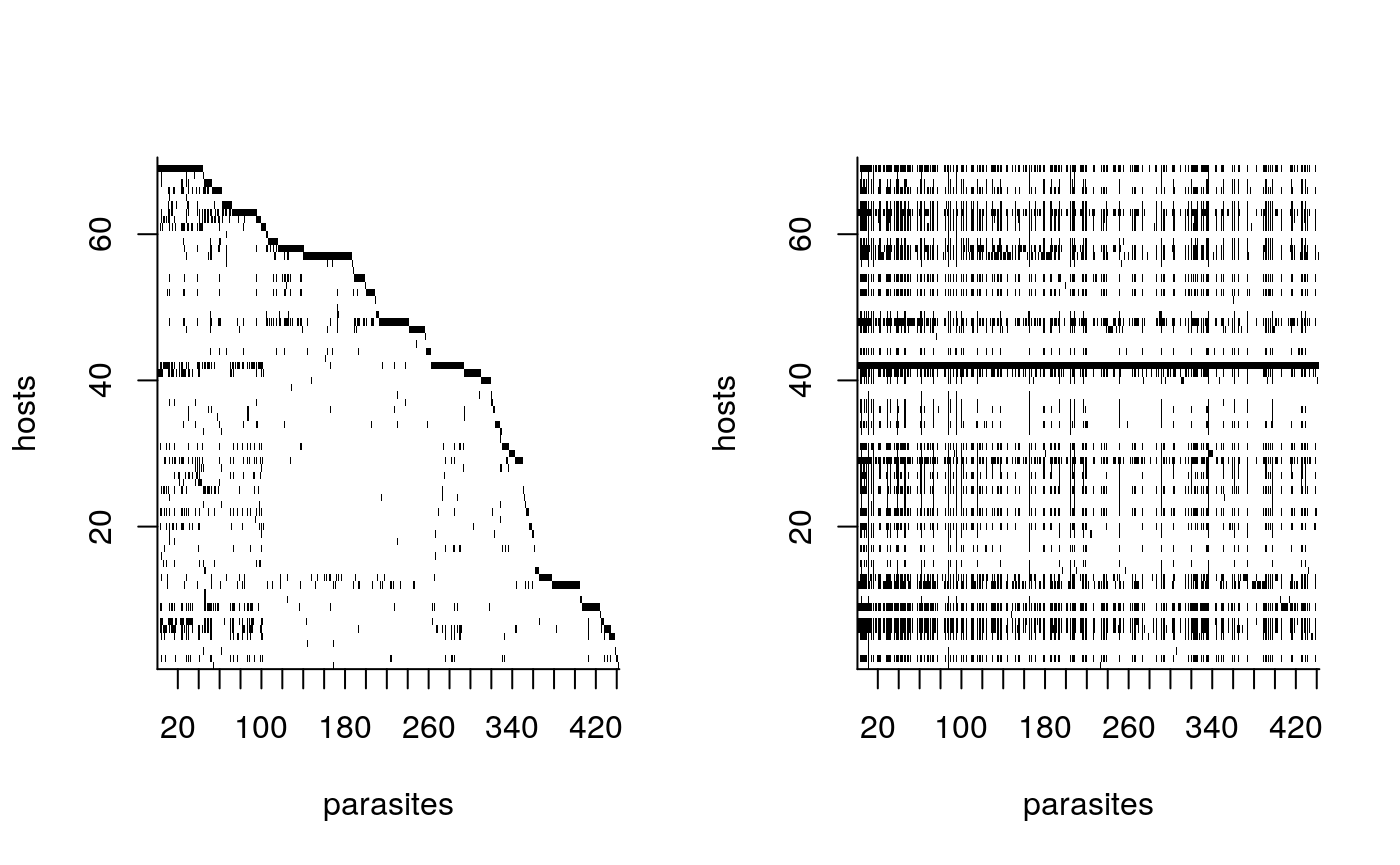
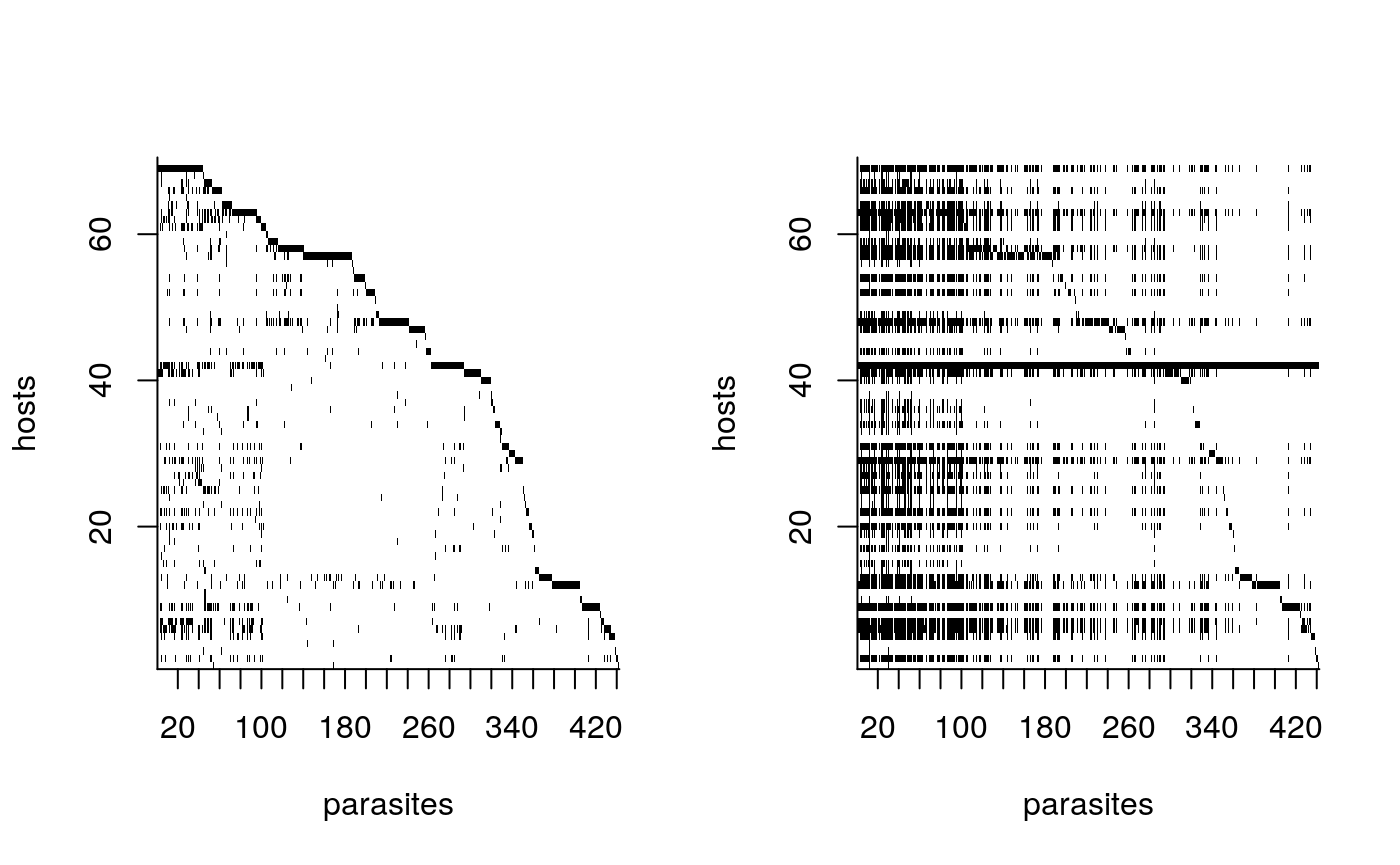
fixed minor issue

Changed region(s): [[0.6143, 0.1873, 0.9521, 0.7803]]

diff --git a/docs/articles/HPprediction.html b/docs/articles/HPprediction.html
@@ -118,10 +118,11 @@
 <a class="sourceLine" id="cb2-22" title="22"><span class="co"># merge the tree and interaction matrix</span></a>
 <a class="sourceLine" id="cb2-23" title="23">cleaned &lt;-<span class="st"> </span><span class="kw"><a href="../reference/network_clean.html">network_clean</a></span>(com, mammal_supertree, <span class="st">'full'</span>)</a>
 <a class="sourceLine" id="cb2-24" title="24"><span class="co">#&gt; Warning: not all rows in Z exist tree; missing are removed from Z!</span></a>
-<a class="sourceLine" id="cb2-25" title="25"><span class="co">#&gt; [1] "ordering the rows of Z to match tree..."</span></a>
-<a class="sourceLine" id="cb2-26" title="26"><span class="co">#&gt; [1] "normalizing tree edges by the maximum pairwise distance!"</span></a>
-<a class="sourceLine" id="cb2-27" title="27">com &lt;-<span class="st"> </span>cleaned<span class="op">$</span>Z                         <span class="co"># cleaned binary interaction matrix</span></a>
-<a class="sourceLine" id="cb2-28" title="28">tree &lt;-<span class="st"> </span>cleaned<span class="op">$</span>tree                     <span class="co"># cleaned tree</span></a></code></pre></div>
+<a class="sourceLine" id="cb2-25" title="25"><span class="co">#&gt; [1] "Z has empty columns - these have been removed!"</span></a>
+<a class="sourceLine" id="cb2-26" title="26"><span class="co">#&gt; [1] "ordering the rows of Z to match tree..."</span></a>
+<a class="sourceLine" id="cb2-27" title="27"><span class="co">#&gt; [1] "normalizing tree edges by the maximum pairwise distance!"</span></a>
+<a class="sourceLine" id="cb2-28" title="28">com &lt;-<span class="st"> </span>cleaned<span class="op">$</span>Z                         <span class="co"># cleaned binary interaction matrix</span></a>
+<a class="sourceLine" id="cb2-29" title="29">tree &lt;-<span class="st"> </span>cleaned<span class="op">$</span>tree                     <span class="co"># cleaned tree</span></a></code></pre></div>
 </div>
 <div id="plotting-input-data" class="section level2">
 <h2 class="hasAnchor">
@@ -141,39 +142,38 @@
 <a href="#running-the-model" class="anchor"></a>Running the model</h2>
 <p>Running for 1500 slices (iterations) on an i7-6560U and 16GB RAM took about 25 seconds.</p>
 <div class="sourceCode" id="cb6"><pre class="sourceCode r"><code class="sourceCode r"><a class="sourceLine" id="cb6-1" title="1">out &lt;-<span class="st"> </span><span class="kw"><a href="../reference/network_est.html">network_est</a></span>(<span class="dt">Z =</span> com, <span class="dt">tree =</span> tree, <span class="dt">slices =</span> <span class="dv">1000</span>, <span class="dt">model.type =</span> <span class="st">'full'</span>)</a>
-<a class="sourceLine" id="cb6-2" title="2"><span class="co">#&gt; [1] "Z has empty columns - these have been removed!"</span></a>
-<a class="sourceLine" id="cb6-3" title="3"><span class="co">#&gt; [1] "Running full model..."</span></a>
-<a class="sourceLine" id="cb6-4" title="4"><span class="co">#&gt; [1] "Run for 1000 slices with 500 burn-ins"</span></a>
-<a class="sourceLine" id="cb6-5" title="5"><span class="co">#&gt; [1] "Matrix dimension: 70 x 442"</span></a>
-<a class="sourceLine" id="cb6-6" title="6"><span class="co">#&gt; [1] "slice: 200, at 2020-04-24 10:22:07"</span></a>
-<a class="sourceLine" id="cb6-7" title="7"><span class="co">#&gt; [1] "slice: 400, at 2020-04-24 10:22:11"</span></a>
-<a class="sourceLine" id="cb6-8" title="8"><span class="co">#&gt; [1] "slice: 600, at 2020-04-24 10:22:15"</span></a>
-<a class="sourceLine" id="cb6-9" title="9"><span class="co">#&gt; [1] "slice: 800, at 2020-04-24 10:22:19"</span></a>
-<a class="sourceLine" id="cb6-10" title="10"><span class="co">#&gt; [1] "slice: 1000, at 2020-04-24 10:22:23"</span></a>
-<a class="sourceLine" id="cb6-11" title="11"><span class="co">#&gt; [1] "Done!"</span></a>
-<a class="sourceLine" id="cb6-12" title="12"><span class="kw"><a href="https://www.rdocumentation.org/packages/utils/topics/str">str</a></span>(out)</a>
-<a class="sourceLine" id="cb6-13" title="13"><span class="co">#&gt; List of 3</span></a>
-<a class="sourceLine" id="cb6-14" title="14"><span class="co">#&gt;  $ param:List of 6</span></a>
-<a class="sourceLine" id="cb6-15" title="15"><span class="co">#&gt;   ..$ w      : num [1:442, 1:500] 1.49 2.08 1.13 1.36 1.32 ...</span></a>
-<a class="sourceLine" id="cb6-16" title="16"><span class="co">#&gt;   ..$ y      : num [1:70, 1:500] 0.453 9.979 1.148 2.939 5.105 ...</span></a>
-<a class="sourceLine" id="cb6-17" title="17"><span class="co">#&gt;   ..$ eta    : num [1:500] 8.1 7.96 7.88 9.81 9.49 ...</span></a>
-<a class="sourceLine" id="cb6-18" title="18"><span class="co">#&gt;   ..$ g      : NULL</span></a>
-<a class="sourceLine" id="cb6-19" title="19"><span class="co">#&gt;   ..$ burn.in: num 500</span></a>
-<a class="sourceLine" id="cb6-20" title="20"><span class="co">#&gt;   ..$ sd     :List of 3</span></a>
-<a class="sourceLine" id="cb6-21" title="21"><span class="co">#&gt;   .. ..$ w  : num [1:442] 1.95 1.98 1.98 2.14 2.03 ...</span></a>
-<a class="sourceLine" id="cb6-22" title="22"><span class="co">#&gt;   .. ..$ y  : num [1:70] 1.1 5.52 1.86 2.68 4.05 ...</span></a>
-<a class="sourceLine" id="cb6-23" title="23"><span class="co">#&gt;   .. ..$ eta: num 0.758</span></a>
-<a class="sourceLine" id="cb6-24" title="24"><span class="co">#&gt;  $ Z    : num [1:70, 1:442] 0 0 0 0 0 0 0 0 0 0 ...</span></a>
-<a class="sourceLine" id="cb6-25" title="25"><span class="co">#&gt;   ..- attr(*, "dimnames")=List of 2</span></a>
-<a class="sourceLine" id="cb6-26" title="26"><span class="co">#&gt;   .. ..$ : chr [1:70] "Addax_nasomaculatus" "Oryx_gazella" "Hippotragus_equinus" "Hippotragus_niger" ...</span></a>
-<a class="sourceLine" id="cb6-27" title="27"><span class="co">#&gt;   .. ..$ : chr [1:442] "Acinetobacter lwoffii" "Actinobacillus actinomycetemcomitans" "Africanostrongylus buceros" "Agriostomum cursoni" ...</span></a>
-<a class="sourceLine" id="cb6-28" title="28"><span class="co">#&gt;  $ tree :List of 4</span></a>
-<a class="sourceLine" id="cb6-29" title="29"><span class="co">#&gt;   ..$ edge       : int [1:118, 1:2] 71 72 73 74 75 76 76 75 77 77 ...</span></a>
-<a class="sourceLine" id="cb6-30" title="30"><span class="co">#&gt;   ..$ edge.length: num [1:118] 0.1774 0.0604 0.0792 0.3736 0.0604 ...</span></a>
-<a class="sourceLine" id="cb6-31" title="31"><span class="co">#&gt;   ..$ Nnode      : int 49</span></a>
-<a class="sourceLine" id="cb6-32" title="32"><span class="co">#&gt;   ..$ tip.label  : chr [1:70] "Addax_nasomaculatus" "Oryx_gazella" "Hippotragus_equinus" "Hippotragus_niger" ...</span></a>
-<a class="sourceLine" id="cb6-33" title="33"><span class="co">#&gt;   ..- attr(*, "class")= chr "phylo"</span></a>
-<a class="sourceLine" id="cb6-34" title="34"><span class="co">#&gt;   ..- attr(*, "order")= chr "cladewise"</span></a></code></pre></div>
+<a class="sourceLine" id="cb6-2" title="2"><span class="co">#&gt; [1] "Running full model..."</span></a>
+<a class="sourceLine" id="cb6-3" title="3"><span class="co">#&gt; [1] "Run for 1000 slices with 500 burn-ins"</span></a>
+<a class="sourceLine" id="cb6-4" title="4"><span class="co">#&gt; [1] "Matrix dimension: 70 x 442"</span></a>
+<a class="sourceLine" id="cb6-5" title="5"><span class="co">#&gt; [1] "slice: 200, at 2020-04-24 14:01:47"</span></a>
+<a class="sourceLine" id="cb6-6" title="6"><span class="co">#&gt; [1] "slice: 400, at 2020-04-24 14:01:51"</span></a>
+<a class="sourceLine" id="cb6-7" title="7"><span class="co">#&gt; [1] "slice: 600, at 2020-04-24 14:01:55"</span></a>
+<a class="sourceLine" id="cb6-8" title="8"><span class="co">#&gt; [1] "slice: 800, at 2020-04-24 14:01:59"</span></a>
+<a class="sourceLine" id="cb6-9" title="9"><span class="co">#&gt; [1] "slice: 1000, at 2020-04-24 14:02:02"</span></a>
+<a class="sourceLine" id="cb6-10" title="10"><span class="co">#&gt; [1] "Done!"</span></a>
+<a class="sourceLine" id="cb6-11" title="11"><span class="kw"><a href="https://www.rdocumentation.org/packages/utils/topics/str">str</a></span>(out)</a>
+<a class="sourceLine" id="cb6-12" title="12"><span class="co">#&gt; List of 3</span></a>
+<a class="sourceLine" id="cb6-13" title="13"><span class="co">#&gt;  $ param:List of 6</span></a>
+<a class="sourceLine" id="cb6-14" title="14"><span class="co">#&gt;   ..$ w      : num [1:442, 1:500] 1.57 1.6 1.75 1.7 1.96 ...</span></a>
+<a class="sourceLine" id="cb6-15" title="15"><span class="co">#&gt;   ..$ y      : num [1:70, 1:500] 0.261 6.599 0.579 1.724 3.355 ...</span></a>
+<a class="sourceLine" id="cb6-16" title="16"><span class="co">#&gt;   ..$ eta    : num [1:500] 7.11 7.17 6.63 6.65 7.13 ...</span></a>
+<a class="sourceLine" id="cb6-17" title="17"><span class="co">#&gt;   ..$ g      : NULL</span></a>
+<a class="sourceLine" id="cb6-18" title="18"><span class="co">#&gt;   ..$ burn.in: num 500</span></a>
+<a class="sourceLine" id="cb6-19" title="19"><span class="co">#&gt;   ..$ sd     :List of 3</span></a>
+<a class="sourceLine" id="cb6-20" title="20"><span class="co">#&gt;   .. ..$ w  : num [1:442] 2.1 2.03 2.11 2.05 2.04 ...</span></a>
+<a class="sourceLine" id="cb6-21" title="21"><span class="co">#&gt;   .. ..$ y  : num [1:70] 1.09 5.12 1.75 2.6 3.78 ...</span></a>
+<a class="sourceLine" id="cb6-22" title="22"><span class="co">#&gt;   .. ..$ eta: num 0.681</span></a>
+<a class="sourceLine" id="cb6-23" title="23"><span class="co">#&gt;  $ Z    : num [1:70, 1:442] 0 0 0 0 0 0 0 0 0 0 ...</span></a>
+<a class="sourceLine" id="cb6-24" title="24"><span class="co">#&gt;   ..- attr(*, "dimnames")=List of 2</span></a>
+<a class="sourceLine" id="cb6-25" title="25"><span class="co">#&gt;   .. ..$ : chr [1:70] "Addax_nasomaculatus" "Oryx_gazella" "Hippotragus_equinus" "Hippotragus_niger" ...</span></a>
+<a class="sourceLine" id="cb6-26" title="26"><span class="co">#&gt;   .. ..$ : chr [1:442] "Acinetobacter lwoffii" "Actinobacillus actinomycetemcomitans" "Africanostrongylus buceros" "Agriostomum cursoni" ...</span></a>
+<a class="sourceLine" id="cb6-27" title="27"><span class="co">#&gt;  $ tree :List of 4</span></a>
+<a class="sourceLine" id="cb6-28" title="28"><span class="co">#&gt;   ..$ edge       : int [1:118, 1:2] 71 72 73 74 75 76 76 75 77 77 ...</span></a>
+<a class="sourceLine" id="cb6-29" title="29"><span class="co">#&gt;   ..$ edge.length: num [1:118] 0.1774 0.0604 0.0792 0.3736 0.0604 ...</span></a>
+<a class="sourceLine" id="cb6-30" title="30"><span class="co">#&gt;   ..$ Nnode      : int 49</span></a>
+<a class="sourceLine" id="cb6-31" title="31"><span class="co">#&gt;   ..$ tip.label  : chr [1:70] "Addax_nasomaculatus" "Oryx_gazella" "Hippotragus_equinus" "Hippotragus_niger" ...</span></a>
+<a class="sourceLine" id="cb6-32" title="32"><span class="co">#&gt;   ..- attr(*, "class")= chr "phylo"</span></a>
+<a class="sourceLine" id="cb6-33" title="33"><span class="co">#&gt;   ..- attr(*, "order")= chr "cladewise"</span></a></code></pre></div>
 <div id="example-traceplots" class="section level3">
 <h3 class="hasAnchor">
 <a href="#example-traceplots" class="anchor"></a>Example traceplots</h3>
@@ -199,27 +199,27 @@
 <a href="#identfying-top-predicted-links-with-no-documentation" class="anchor"></a>Identfying top predicted links with no documentation</h3>
 <div class="sourceCode" id="cb11"><pre class="sourceCode r"><code class="sourceCode r"><a class="sourceLine" id="cb11-1" title="1"><span class="kw"><a href="../reference/topPairs.html">topPairs</a></span>(P, out<span class="op">$</span>Z)</a>
 <a class="sourceLine" id="cb11-2" title="2"><span class="co">#&gt;                          Hosts                                Parasites</span></a>
-<a class="sourceLine" id="cb11-3" title="3"><span class="co">#&gt; 22003      Rupicapra_rupicapra                    Rhipicephalus evertsi</span></a>
-<a class="sourceLine" id="cb11-4" title="4"><span class="co">#&gt; 28449       Aepyceros_melampus                        Toxoplasma gondii</span></a>
-<a class="sourceLine" id="cb11-5" title="5"><span class="co">#&gt; 27819       Aepyceros_melampus                Teladorsagia circumcincta</span></a>
-<a class="sourceLine" id="cb11-6" title="6"><span class="co">#&gt; 29073      Rupicapra_rupicapra              Trichostrongylus falculatus</span></a>
-<a class="sourceLine" id="cb11-7" title="7"><span class="co">#&gt; 19763      Rupicapra_rupicapra Pestivirus Bovine viral diarrhea virus 1</span></a>
+<a class="sourceLine" id="cb11-3" title="3"><span class="co">#&gt; 28449       Aepyceros_melampus                        Toxoplasma gondii</span></a>
+<a class="sourceLine" id="cb11-4" title="4"><span class="co">#&gt; 22003      Rupicapra_rupicapra                    Rhipicephalus evertsi</span></a>
+<a class="sourceLine" id="cb11-5" title="5"><span class="co">#&gt; 19763      Rupicapra_rupicapra Pestivirus Bovine viral diarrhea virus 1</span></a>
+<a class="sourceLine" id="cb11-6" title="6"><span class="co">#&gt; 27819       Aepyceros_melampus                Teladorsagia circumcincta</span></a>
+<a class="sourceLine" id="cb11-7" title="7"><span class="co">#&gt; 29073      Rupicapra_rupicapra              Trichostrongylus falculatus</span></a>
 <a class="sourceLine" id="cb11-8" title="8"><span class="co">#&gt; 16409       Aepyceros_melampus                    Nematodirus spathiger</span></a>
 <a class="sourceLine" id="cb11-9" title="9"><span class="co">#&gt; 1843       Rupicapra_rupicapra                       Bacillus anthracis</span></a>
 <a class="sourceLine" id="cb11-10" title="10"><span class="co">#&gt; 10383      Rupicapra_rupicapra                     Impalaia tuberculata</span></a>
 <a class="sourceLine" id="cb11-11" title="11"><span class="co">#&gt; 28835 Tragelaphus_strepsiceros                    Trichostrongylus axei</span></a>
 <a class="sourceLine" id="cb11-12" title="12"><span class="co">#&gt; 28975 Tragelaphus_strepsiceros           Trichostrongylus colubriformis</span></a>
 <a class="sourceLine" id="cb11-13" title="13"><span class="co">#&gt;               p</span></a>
-<a class="sourceLine" id="cb11-14" title="14"><span class="co">#&gt; 22003 0.5075522</span></a>
-<a class="sourceLine" id="cb11-15" title="15"><span class="co">#&gt; 28449 0.4980390</span></a>
-<a class="sourceLine" id="cb11-16" title="16"><span class="co">#&gt; 27819 0.4817343</span></a>
-<a class="sourceLine" id="cb11-17" title="17"><span class="co">#&gt; 29073 0.4706660</span></a>
-<a class="sourceLine" id="cb11-18" title="18"><span class="co">#&gt; 19763 0.4688347</span></a>
-<a class="sourceLine" id="cb11-19" title="19"><span class="co">#&gt; 16409 0.4503569</span></a>
-<a class="sourceLine" id="cb11-20" title="20"><span class="co">#&gt; 1843  0.4490996</span></a>
-<a class="sourceLine" id="cb11-21" title="21"><span class="co">#&gt; 10383 0.4399790</span></a>
-<a class="sourceLine" id="cb11-22" title="22"><span class="co">#&gt; 28835 0.4390938</span></a>
-<a class="sourceLine" id="cb11-23" title="23"><span class="co">#&gt; 28975 0.4202224</span></a></code></pre></div>
+<a class="sourceLine" id="cb11-14" title="14"><span class="co">#&gt; 28449 0.4929885</span></a>
+<a class="sourceLine" id="cb11-15" title="15"><span class="co">#&gt; 22003 0.4886306</span></a>
+<a class="sourceLine" id="cb11-16" title="16"><span class="co">#&gt; 19763 0.4633080</span></a>
+<a class="sourceLine" id="cb11-17" title="17"><span class="co">#&gt; 27819 0.4617923</span></a>
+<a class="sourceLine" id="cb11-18" title="18"><span class="co">#&gt; 29073 0.4591450</span></a>
+<a class="sourceLine" id="cb11-19" title="19"><span class="co">#&gt; 16409 0.4399789</span></a>
+<a class="sourceLine" id="cb11-20" title="20"><span class="co">#&gt; 1843  0.4313757</span></a>
+<a class="sourceLine" id="cb11-21" title="21"><span class="co">#&gt; 10383 0.4274391</span></a>
+<a class="sourceLine" id="cb11-22" title="22"><span class="co">#&gt; 28835 0.4243908</span></a>
+<a class="sourceLine" id="cb11-23" title="23"><span class="co">#&gt; 28975 0.4088494</span></a></code></pre></div>
 </div>
 </div>
 <div id="general-approach-to-running-the-model-with-5-fold-cross-validation" class="section level2">
@@ -339,30 +339,38 @@
 <div class="sourceCode" id="cb15"><pre class="sourceCode r"><code class="sourceCode r"><a class="sourceLine" id="cb15-1" title="1"><span class="co">## Constructing the P probability matrix from CV results</span></a>
 <a class="sourceLine" id="cb15-2" title="2">P =<span class="st"> </span><span class="kw"><a href="https://www.rdocumentation.org/packages/base/topics/matrix">matrix</a></span>(<span class="kw"><a href="https://www.rdocumentation.org/packages/base/topics/colSums">rowMeans</a></span>(<span class="kw"><a href="https://www.rdocumentation.org/packages/base/topics/lapply">sapply</a></span>(res, <span class="cf">function</span>(r) r<span class="op">$</span>param<span class="op">$</span>P)),</a>
 <a class="sourceLine" id="cb15-3" title="3">    <span class="dt">nrow =</span> <span class="kw"><a href="https://www.rdocumentation.org/packages/base/topics/nrow">nrow</a></span>(com), <span class="dt">ncol =</span> <span class="kw"><a href="https://www.rdocumentation.org/packages/base/topics/nrow">ncol</a></span>(com))</a>
-<a class="sourceLine" id="cb15-4" title="4"><span class="co">#&gt; Warning in matrix(rowMeans(sapply(res, function(r) r$param$P)), nrow =</span></a>
-<a class="sourceLine" id="cb15-5" title="5"><span class="co">#&gt; nrow(com), : data length [30940] is not a sub-multiple or multiple of the</span></a>
-<a class="sourceLine" id="cb15-6" title="6"><span class="co">#&gt; number of columns [444]</span></a>
-<a class="sourceLine" id="cb15-7" title="7"></a>
-<a class="sourceLine" id="cb15-8" title="8"><span class="co">## left ordering of interaction and probability matrix</span></a>
-<a class="sourceLine" id="cb15-9" title="9">indices =<span class="st"> </span><span class="kw"><a href="../reference/lof.html">lof</a></span>(com, <span class="dt">indices =</span> <span class="ot">TRUE</span>)</a>
-<a class="sourceLine" id="cb15-10" title="10">com =<span class="st"> </span>com[, indices]</a>
-<a class="sourceLine" id="cb15-11" title="11">P =<span class="st"> </span>P[, indices]</a>
-<a class="sourceLine" id="cb15-12" title="12"><span class="kw"><a href="https://www.rdocumentation.org/packages/base/topics/colnames">rownames</a></span>(P)&lt;-<span class="kw"><a href="https://www.rdocumentation.org/packages/base/topics/colnames">rownames</a></span>(com)</a>
-<a class="sourceLine" id="cb15-13" title="13"><span class="kw"><a href="https://www.rdocumentation.org/packages/base/topics/colnames">colnames</a></span>(P)&lt;-<span class="kw"><a href="https://www.rdocumentation.org/packages/base/topics/colnames">colnames</a></span>(com)</a>
-<a class="sourceLine" id="cb15-14" title="14"></a>
-<a class="sourceLine" id="cb15-15" title="15"><span class="co">## view top undocumented interactions</span></a>
-<a class="sourceLine" id="cb15-16" title="16"><span class="kw"><a href="../reference/topPairs.html">topPairs</a></span>(P,<span class="dv">1</span><span class="op">*</span>(com<span class="op">&gt;</span><span class="dv">0</span>),<span class="dt">topX=</span><span class="dv">10</span>)</a>
-<a class="sourceLine" id="cb15-17" title="17"><span class="co">#&gt;                     Hosts               Parasites         p</span></a>
-<a class="sourceLine" id="cb15-18" title="18"><span class="co">#&gt; 2409   Aepyceros_melampus Rhipicephalus punctatus 0.9883241</span></a>
-<a class="sourceLine" id="cb15-19" title="19"><span class="co">#&gt; 21449  Aepyceros_melampus    Sarcocystis gazellae 0.9870833</span></a>
-<a class="sourceLine" id="cb15-20" title="20"><span class="co">#&gt; 7239   Aepyceros_melampus    Rhipicephalus nitens 0.9870594</span></a>
-<a class="sourceLine" id="cb15-21" title="21"><span class="co">#&gt; 5559   Aepyceros_melampus    Linognathus gorgonus 0.9867706</span></a>
-<a class="sourceLine" id="cb15-22" title="22"><span class="co">#&gt; 5629   Aepyceros_melampus    Linognathus spicatus 0.9866329</span></a>
-<a class="sourceLine" id="cb15-23" title="23"><span class="co">#&gt; 21869  Aepyceros_melampus      Damalinia cornutus 0.9863736</span></a>
-<a class="sourceLine" id="cb15-24" title="24"><span class="co">#&gt; 28239  Aepyceros_melampus         Thelazia gulosa 0.9856110</span></a>
-<a class="sourceLine" id="cb15-25" title="25"><span class="co">#&gt; 22843 Rupicapra_rupicapra    Nematodirus gazellae 0.9787320</span></a>
-<a class="sourceLine" id="cb15-26" title="26"><span class="co">#&gt; 20393 Rupicapra_rupicapra      Toxocara vitulorum 0.9781722</span></a>
-<a class="sourceLine" id="cb15-27" title="27"><span class="co">#&gt; 28163 Rupicapra_rupicapra  Spiculopteragia boehmi 0.9773219</span></a></code></pre></div>
+<a class="sourceLine" id="cb15-4" title="4"></a>
+<a class="sourceLine" id="cb15-5" title="5"><span class="co">## left ordering of interaction and probability matrix</span></a>
+<a class="sourceLine" id="cb15-6" title="6">indices =<span class="st"> </span><span class="kw"><a href="../reference/lof.html">lof</a></span>(com, <span class="dt">indices =</span> <span class="ot">TRUE</span>)</a>
+<a class="sourceLine" id="cb15-7" title="7">com =<span class="st"> </span>com[, indices]</a>
+<a class="sourceLine" id="cb15-8" title="8">P =<span class="st"> </span>P[, indices]</a>
+<a class="sourceLine" id="cb15-9" title="9"><span class="kw"><a href="https://www.rdocumentation.org/packages/base/topics/colnames">rownames</a></span>(P)&lt;-<span class="kw"><a href="https://www.rdocumentation.org/packages/base/topics/colnames">rownames</a></span>(com)</a>
+<a class="sourceLine" id="cb15-10" title="10"><span class="kw"><a href="https://www.rdocumentation.org/packages/base/topics/colnames">colnames</a></span>(P)&lt;-<span class="kw"><a href="https://www.rdocumentation.org/packages/base/topics/colnames">colnames</a></span>(com)</a>
+<a class="sourceLine" id="cb15-11" title="11"></a>
+<a class="sourceLine" id="cb15-12" title="12"><span class="co">## view top undocumented interactions</span></a>
+<a class="sourceLine" id="cb15-13" title="13"><span class="kw"><a href="../reference/topPairs.html">topPairs</a></span>(P,<span class="dv">1</span><span class="op">*</span>(com<span class="op">&gt;</span><span class="dv">0</span>),<span class="dt">topX=</span><span class="dv">10</span>)</a>
+<a class="sourceLine" id="cb15-14" title="14"><span class="co">#&gt;                         Hosts                                Parasites</span></a>
+<a class="sourceLine" id="cb15-15" title="15"><span class="co">#&gt; 2053      Rupicapra_rupicapra                    Rhipicephalus evertsi</span></a>
+<a class="sourceLine" id="cb15-16" title="16"><span class="co">#&gt; 3529       Aepyceros_melampus                        Toxoplasma gondii</span></a>
+<a class="sourceLine" id="cb15-17" title="17"><span class="co">#&gt; 2823      Rupicapra_rupicapra              Trichostrongylus falculatus</span></a>
+<a class="sourceLine" id="cb15-18" title="18"><span class="co">#&gt; 4159       Aepyceros_melampus                Teladorsagia circumcincta</span></a>
+<a class="sourceLine" id="cb15-19" title="19"><span class="co">#&gt; 1913      Rupicapra_rupicapra Pestivirus Bovine viral diarrhea virus 1</span></a>
+<a class="sourceLine" id="cb15-20" title="20"><span class="co">#&gt; 1709       Aepyceros_melampus                    Nematodirus spathiger</span></a>
+<a class="sourceLine" id="cb15-21" title="21"><span class="co">#&gt; 233       Rupicapra_rupicapra                       Bacillus anthracis</span></a>
+<a class="sourceLine" id="cb15-22" title="22"><span class="co">#&gt; 1143      Rupicapra_rupicapra                     Impalaia tuberculata</span></a>
+<a class="sourceLine" id="cb15-23" title="23"><span class="co">#&gt; 2725 Tragelaphus_strepsiceros                    Trichostrongylus axei</span></a>
+<a class="sourceLine" id="cb15-24" title="24"><span class="co">#&gt; 6645 Tragelaphus_strepsiceros           Trichostrongylus colubriformis</span></a>
+<a class="sourceLine" id="cb15-25" title="25"><span class="co">#&gt;              p</span></a>
+<a class="sourceLine" id="cb15-26" title="26"><span class="co">#&gt; 2053 0.4775287</span></a>
+<a class="sourceLine" id="cb15-27" title="27"><span class="co">#&gt; 3529 0.4562461</span></a>
+<a class="sourceLine" id="cb15-28" title="28"><span class="co">#&gt; 2823 0.4515121</span></a>
+<a class="sourceLine" id="cb15-29" title="29"><span class="co">#&gt; 4159 0.4496634</span></a>
+<a class="sourceLine" id="cb15-30" title="30"><span class="co">#&gt; 1913 0.4429673</span></a>
+<a class="sourceLine" id="cb15-31" title="31"><span class="co">#&gt; 1709 0.4394255</span></a>
+<a class="sourceLine" id="cb15-32" title="32"><span class="co">#&gt; 233  0.4210100</span></a>
+<a class="sourceLine" id="cb15-33" title="33"><span class="co">#&gt; 1143 0.4160180</span></a>
+<a class="sourceLine" id="cb15-34" title="34"><span class="co">#&gt; 2725 0.4133397</span></a>
+<a class="sourceLine" id="cb15-35" title="35"><span class="co">#&gt; 6645 0.3945742</span></a></code></pre></div>
 <p>We can also compare the input matrix to the posterior interaction matrix, and the orginal phylogeny compared to the phylogeny with estimated EB scaling.</p>
 <div class="sourceCode" id="cb16"><pre class="sourceCode r"><code class="sourceCode r"><a class="sourceLine" id="cb16-1" title="1"><span class="kw"><a href="https://www.rdocumentation.org/packages/graphics/topics/par">par</a></span>(<span class="dt">mfrow=</span><span class="kw"><a href="https://www.rdocumentation.org/packages/base/topics/c">c</a></span>(<span class="dv">1</span>,<span class="dv">2</span>))</a>
 <a class="sourceLine" id="cb16-2" title="2"></a>
